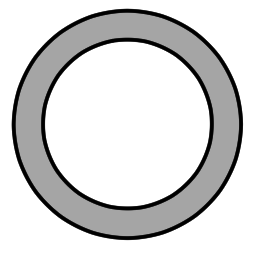
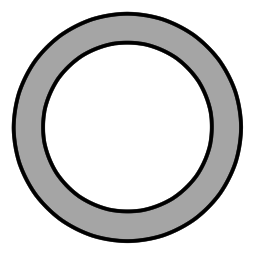
ロウゲージいい感じに修正。壁衝突時に色変わらないように

diff --git a/Application/Chara/Player/PlayerUI.cpp b/Application/Chara/Player/PlayerUI.cpp
@@ -20,6 +20,7 @@ PlayerUI::PlayerUI()
 	
 	basePos = Parameter::GetVector3Data(extract, "ゲージの位置", {0,0,0});
 	baseScale = Parameter::GetVector3Data(extract,"ゲージの大きさ", { 1,1,1 });
+	sizeCoeffPlus = Parameter::GetParam(extract,"ゲージ間の幅", 0.2f);
 
 	GaugeReset();
 	GaugeAdd();
@@ -92,7 +93,7 @@ void PlayerUI::Update(Player* player)
 	//ゲージが必要になったら増やす(1.0fを超えたら2本目を生成、2.0fを超えたら3本目を生成...を繰り返す)
 	while (baseBackRadian > (float)waxCircleGauges.size())
 	{
-		GaugeAdd();
+		GaugeAdd(true);
 	};
 
 	GaugeUpdate();
@@ -106,11 +107,13 @@ void PlayerUI::Update(Player* player)
 		ImGui::Text("現在の割合:%f", baseRadian);
 		ImGui::DragFloat3("位置", &basePos.x);
 		ImGui::DragFloat3("大きさ", &baseScale.x);
+		ImGui::DragFloat("ゲージ間の幅", &sizeCoeffPlus);
 
 		if (ImGui::Button("セーブ")) {
 			Parameter::Begin("waxCircleGauge");
 			Parameter::SaveVector3("ゲージの位置", basePos);
 			Parameter::SaveVector3("ゲージの大きさ", baseScale);
+			Parameter::Save("ゲージ間の幅", sizeCoeffPlus);
 			Parameter::End();
 		}
 
@@ -138,22 +141,30 @@ void PlayerUI::GaugeReset()
 	waxCircleGaugeBacks.clear();
 }
 
-void PlayerUI::GaugeAdd()
+void PlayerUI::GaugeAdd(bool isOut)
 {
 	waxCircleGauges.emplace_back();
 	waxCircleGauges.back().Init();
-	//デフォルトと同じだけど明示的にしたいのでテクスチャ配置
-	//waxCircleGauges.back().sprite.SetTexture(TextureManager::Load("./Resources/circleGauge.png", "circleGauge"));
-	waxCircleGauges.back().SetTexture(TextureManager::Load("./Resources/UI/waxGauge.png", "waxGauge"));
 	waxCircleGauges.back().radian = 360.0f;
 	
 	waxCircleGaugeBacks.emplace_back();
 	waxCircleGaugeBacks.back().Init();
-	//デフォルトと同じだけど明示的にしたいのでテクスチャ配置
-	//waxCircleGaugeBacks.back().sprite.SetTexture(TextureManager::Load("./Resources/circleGaugeBack.png", "circleGaugeBack"));
-	waxCircleGaugeBacks.back().SetTexture(TextureManager::Load("./Resources/UI/circleGaugeBack.png", "circleGaugeBack"));
 	waxCircleGaugeBacks.back().radian = 360.0f;
 
+	if (isOut)
+	{
+		waxCircleGauges.back().SetTexture(TextureManager::Load("./Resources/UI/waxGaugeOut.png", "waxGaugeOut"));
+		waxCircleGaugeBacks.back().SetTexture(TextureManager::Load("./Resources/UI/waxGaugeOutBack.png", "waxGaugeOutBack"));
+	}
+	else
+	{
+		//デフォルトと同じだけど明示的にしたいのでテクスチャ配置
+		//waxCircleGauges.back().sprite.SetTexture(TextureManager::Load("./Resources/circleGauge.png", "circleGauge"));
+		waxCircleGauges.back().SetTexture(TextureManager::Load("./Resources/UI/waxGauge.png", "waxGauge"));
+		
+		//waxCircleGaugeBacks.back().sprite.SetTexture(TextureManager::Load("./Resources/circleGaugeBack.png", "circleGaugeBack"));
+		waxCircleGaugeBacks.back().SetTexture(TextureManager::Load("./Resources/UI/circleGaugeBack.png", "circleGaugeBack"));
+	}
 }
 
 void PlayerUI::GaugeUpdate()

diff --git a/Application/Chara/Player/Player.cpp b/Application/Chara/Player/Player.cpp
@@ -223,10 +223,12 @@ void Player::Update()
 	//}
 	////ストックがおかしな値にならないように
 	//waxStock = Util::Clamp(waxStock, 0, maxWaxStock);
-	maxWaxStock = Util::Clamp(maxWaxStock, 0, 100);
-
+	
 	//回収処理
 	WaxCollect();
+
+	maxWaxStock = Util::Clamp(maxWaxStock, 0, 100);
+	waxStock = Util::Clamp(waxStock, 0, 100);
 
 	//回収が終わったらモデルを戻す
 	if (WaxManager::GetInstance()->isCollected && modelChange) {
@@ -400,16 +402,11 @@ void Player::Update()
 	{
 		moveVec = -moveVec;
 		obj.mTransform.position += moveVec + slideVec;
-		obj.mTuneMaterial.mColor = Color::kPink;
-	}
-	else
-	{
-		obj.mTuneMaterial.mColor = Color::kWhite;
 	}
 
 	//更新してからバッファに送る
 	obj.mTransform.UpdateMatrix();
-	obj.mPaintDataBuff->dissolveVal = (float)waxStock / (float)maxWaxStock;;
+	obj.mPaintDataBuff->dissolveVal = (float)waxStock / (float)maxWaxStock;
 	obj.mPaintDataBuff->color = Color(0.8f, 0.6f, 0.35f, 1.0f);
 	obj.mPaintDataBuff->slide += TimeManager::deltaTime;
 	BrightTransferBuffer(Camera::sNowCamera->mViewProjection);

diff --git a/Application/Chara/Player/PlayerUI.h b/Application/Chara/Player/PlayerUI.h
@@ -33,7 +33,7 @@ private:
 	Vector3 baseScale;
 
 	float sizeCoeff = 1.0f;			//サイズの上昇係数
-	float sizeCoeffPlus = 0.2f;			//サイズの上昇係数の上昇値
+	float sizeCoeffPlus = 0.2f;		//サイズの上昇係数の上昇値
 	float baseRadian = 0.0f;		//全体のロウの総量をゲージ事に0.0f~1.0fで管理
 	float baseBackRadian = 0.0f;	//全体のロウの総量をゲージ事に0.0f~1.0fで管理
 									//ゲージが2本になったら1.0f~2.0fになる
@@ -45,7 +45,7 @@ public:
 
 private:
 	void GaugeReset();
-	void GaugeAdd();
+	void GaugeAdd(bool isOut = false);
 	void GaugeUpdate();
 	void GaugeDraw();
 };

diff --git a/Application/Scene/ProtoScene.cpp b/Application/Scene/ProtoScene.cpp
@@ -382,7 +382,7 @@ void ProtoScene::Update()
 		}
 	}
 
-	player.waxCollectAmount += EnemyManager::GetInstance()->collectNum;
+	player.waxCollectAmount += EnemyManager::GetInstance()->collectNum * 5;
 
 	if (isHitSound && !player.soundFlag) {
 		//ここで攻撃のヒット音を鳴らす

diff --git a/Application/CircleGauge.h b/Application/CircleGauge.h
@@ -36,6 +36,7 @@ public:
 	float radian = 0.0f;
 
 	float angle = 0.0f;
+	bool isOutside = false;
 
 private:
 	BillboardImage billboard;
